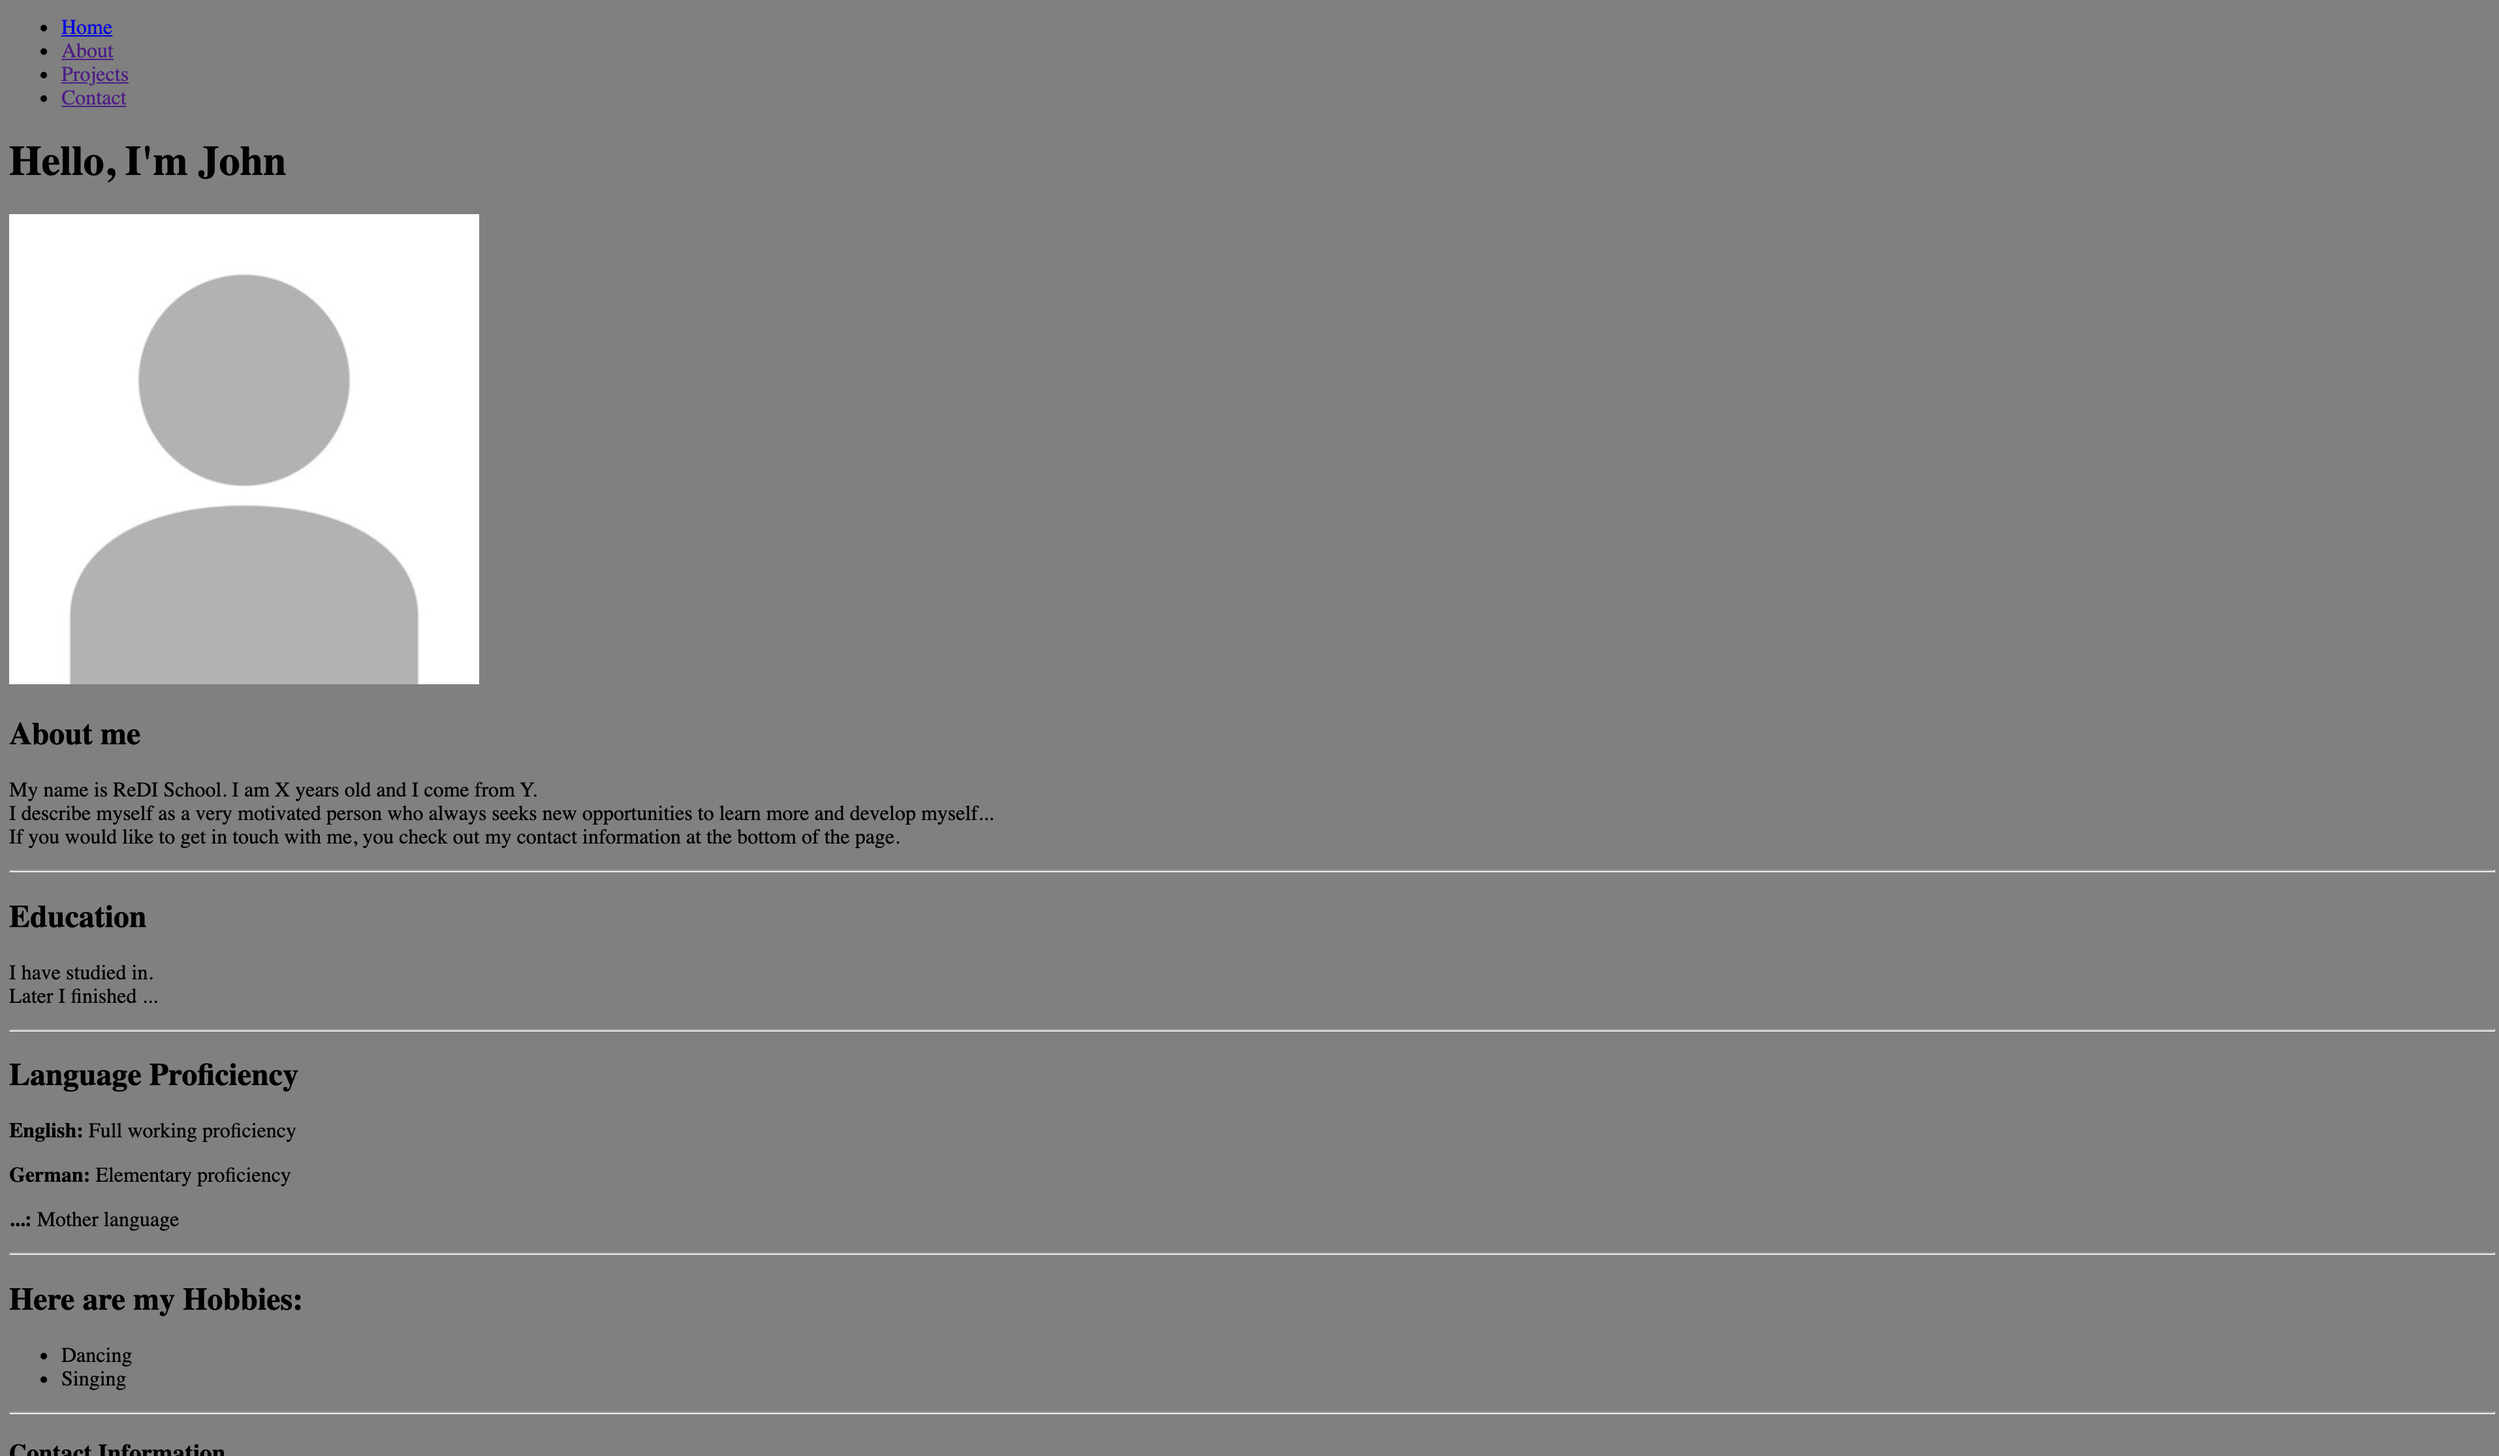
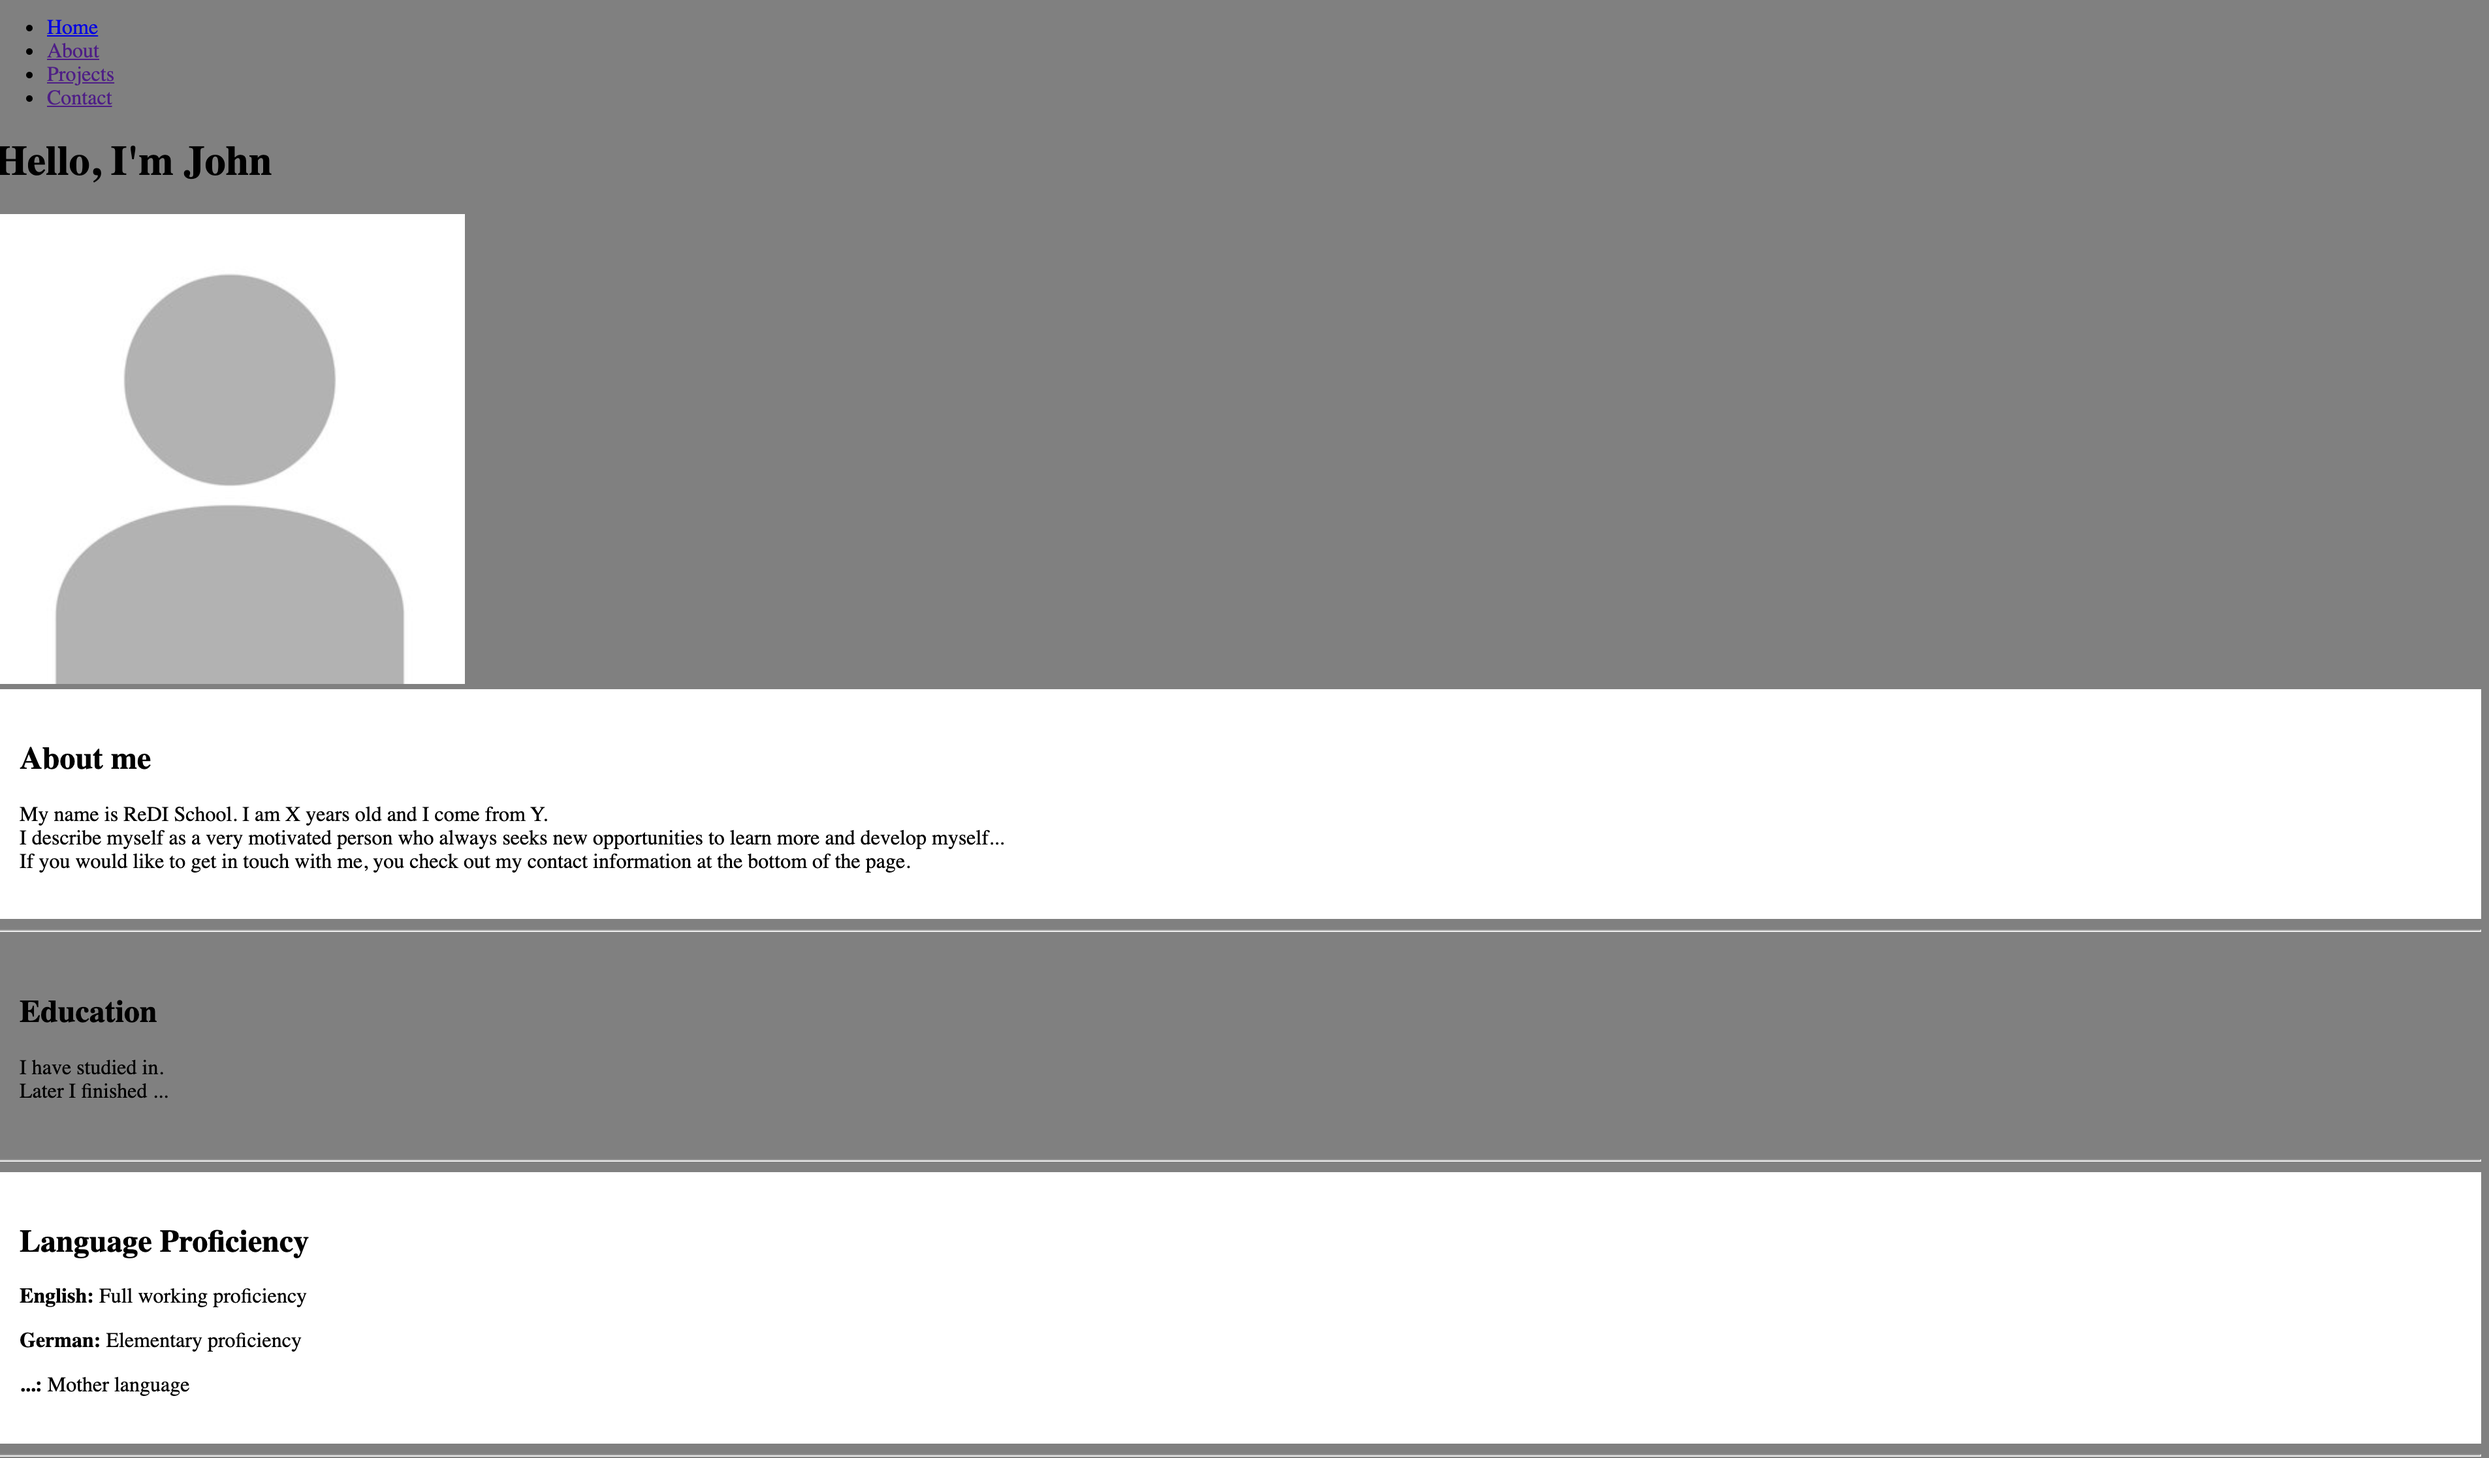
Update the image and homework

diff --git a/lesson8/index.md b/lesson8/index.md
@@ -51,7 +51,7 @@ ETA: 30 mins
 
 - Create an external CSS file
 - Link it to your HTML file
-- Use the element CSS simple selector to make the background color of your portfolio website grey as shown [here](./grey-background.png)
+- Make your portfolio website look like [this](./grey-background.png) using the element, id and class CSS simple selectors
 
 ETA: 20 mins
 
@@ -62,7 +62,6 @@ ETA: 20 mins
 
 # Homework
 
-- Use the other CSS simple selectors to achieve the same result from the exercise in this class.
 - Use internal CSS and Inline CSS to achieve the same result from the exercise in this class.
 
 # Resources
